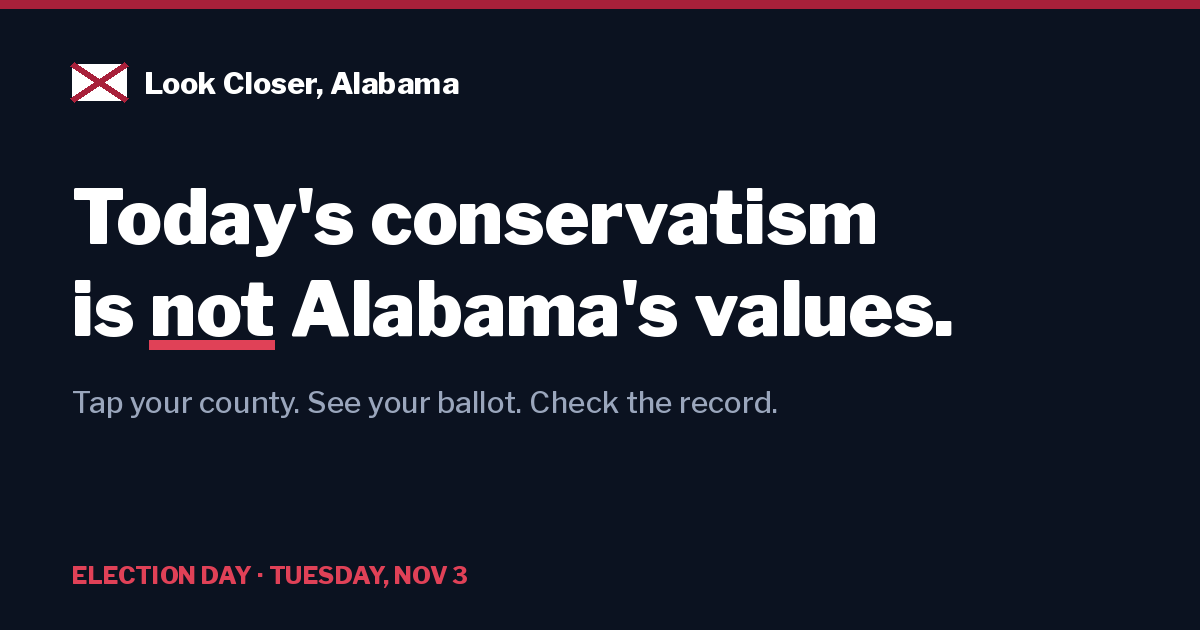
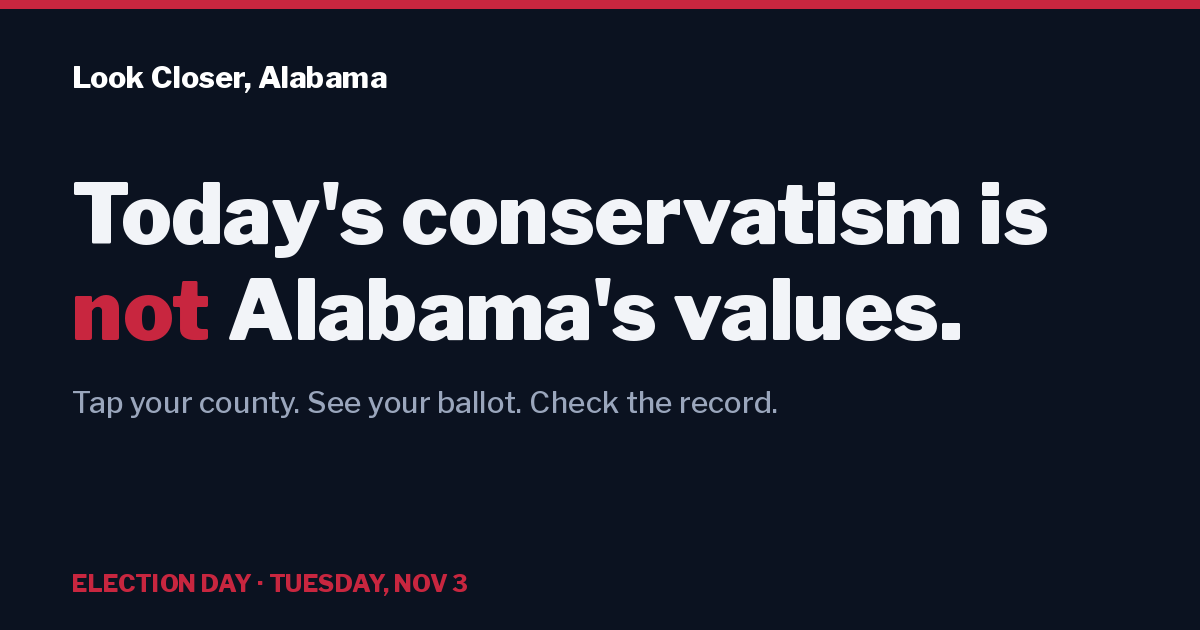
Add files via upload

diff --git a/index.html b/index.html
@@ -21,12 +21,13 @@ body{margin:0}
 /* Layout: an election-night desk. Dark navy board, a clickable county map beside your sample ballot, then a tabbed desk of short interactive panels. Crimson from the state flag marks selection and action. */
 :root{
   --bg:#0B1220; --panel:#111B2E; --panel2:#17243D; --line:#24324D; --ink:#F2F4F8; --muted:#9AA6BC; --faint:#64708A;
-  --crimson:#E04157; --flag:#A8203A; --blue:#6AA6F5; --rep:#B4BDCD; --good:#6AA6F5;
+  --crimson:#E04157; --flag:#A8203A; --red:#C8263F; --blue:#6AA6F5; --rep:#EF6B73; --good:#6AA6F5;
   --ui:"Libre Franklin", "Franklin Gothic Medium", "Helvetica Neue", Arial, sans-serif;
   --serif:"Source Serif 4", Georgia, serif;
   color-scheme:dark;
 }
 *{box-sizing:border-box}
+[hidden]{display:none!important}
 html,body{background:var(--bg)}
 body{color:var(--ink);font:15px/1.55 var(--ui)}
 .gutter{padding-left:max(16px, env(safe-area-inset-left,0px));padding-right:max(16px, env(safe-area-inset-right,0px))}
@@ -42,7 +43,7 @@ a:focus-visible,button:focus-visible,select:focus-visible,path:focus-visible{out
 .card{background:var(--panel);border:1px solid var(--line);border-radius:6px}
 
 /* top */
-.topbar{height:4px;background:var(--flag)}
+.topbar{height:4px;background:var(--red)}
 .nameplate{border-bottom:1px solid var(--line)}
 .np{display:flex;align-items:center;justify-content:space-between;gap:12px;padding-block:12px;flex-wrap:wrap}
 .brand{display:flex;align-items:center;gap:10px;font:800 1rem var(--ui);color:var(--ink);text-decoration:none}
@@ -53,15 +54,20 @@ a:focus-visible,button:focus-visible,select:focus-visible,path:focus-visible{out
 @keyframes pulse{70%{box-shadow:0 0 0 8px rgba(224,65,87,0)}100%{box-shadow:0 0 0 0 rgba(224,65,87,0)}}
 
 /* hero */
-.hero{padding-block:36px 24px;display:grid;grid-template-columns:minmax(0,1.4fr) minmax(0,1fr);gap:20px 40px;align-items:end}
-.hero h1{font-size:clamp(2rem,5.2vw,3.4rem);line-height:1.04;font-weight:900}
-.hero h1 u{text-decoration:none;box-shadow:inset 0 -.12em 0 var(--crimson)}
+.hero{padding-block:36px 28px;display:flex;flex-direction:column;gap:20px;position:relative}
+.wall{position:relative;z-index:1}
+html,body{overflow-x:clip}
+body{position:relative}
+.hero-sub{display:grid;grid-template-columns:minmax(0,1fr) auto;gap:16px 40px;align-items:center}
+.hero-sub .lede{max-width:62ch}
+.hero h1{font-family:var(--ui);font-weight:900;font-size:clamp(2.4rem,6.6vw,4.9rem);line-height:1.02;letter-spacing:-.025em}
+.hero h1 em{font-style:normal;color:var(--red)}
 .hero .lede{color:var(--muted);font-size:1.05rem}
 .quick{display:flex;flex-wrap:wrap;gap:8px}
 .btn{display:inline-flex;align-items:center;gap:8px;font:700 .9rem var(--ui);border-radius:4px;padding:10px 16px;cursor:pointer;text-decoration:none;border:1px solid var(--line);background:var(--panel2);color:var(--ink)}
 .btn.primary{background:var(--flag);border-color:var(--flag);color:#fff}
 .btn:hover{filter:brightness(1.15)}
-@media (max-width:760px){.hero{grid-template-columns:1fr}}
+@media (max-width:760px){.hero-sub{grid-template-columns:1fr}}
 
 /* wall: map + ballot */
 .wall{display:grid;grid-template-columns:minmax(0,.9fr) minmax(0,1.1fr);gap:16px;padding-bottom:28px}
@@ -99,6 +105,7 @@ a:focus-visible,button:focus-visible,select:focus-visible,path:focus-visible{out
 .cn span{overflow:hidden;text-overflow:ellipsis;white-space:nowrap}
 .pt{flex:none;font:800 .62rem var(--ui);letter-spacing:.06em;width:20px;height:16px;display:grid;place-items:center;border-radius:2px}
 .d .pt{background:var(--blue);color:var(--bg)} .r .pt{background:var(--rep);color:var(--bg)}
+.who .pt{flex:none;font:800 .62rem var(--ui);width:20px;height:16px;display:grid;place-items:center;border-radius:2px}
 .go{color:var(--faint);font-size:1.1rem}
 .contest.empty{cursor:default}
 .contest.empty .vs{color:var(--muted);font-size:.85rem}
@@ -106,7 +113,7 @@ a:focus-visible,button:focus-visible,select:focus-visible,path:focus-visible{out
 
 /* desk */
 .desk{padding-bottom:40px}
-.deskbar{position:sticky;top:env(safe-area-inset-top,0px);z-index:5;background:var(--bg);border-bottom:1px solid var(--line);display:flex;gap:2px;overflow-x:auto;scrollbar-width:none}
+.deskbar{position:sticky;top:env(safe-area-inset-top,0px);z-index:5;background:rgba(11,18,32,.78);-webkit-backdrop-filter:blur(10px);backdrop-filter:blur(10px);border-bottom:1px solid var(--line);display:flex;gap:2px;overflow-x:auto;scrollbar-width:none}
 body::before{content:"";position:fixed;inset:0 0 auto;height:env(safe-area-inset-top,0px);z-index:10;background:var(--bg)}
 .deskbar button{flex:none;background:none;border:0;border-bottom:3px solid transparent;color:var(--muted);font:700 .88rem var(--ui);padding:14px 14px 11px;cursor:pointer;display:flex;gap:8px;align-items:center}
 .deskbar button[aria-selected="true"]{color:var(--ink);border-bottom-color:var(--crimson)}
@@ -134,6 +141,19 @@ body::before{content:"";position:fixed;inset:0 0 auto;height:env(safe-area-inset
 .verdict.fact{color:var(--blue)} .verdict.myth{color:var(--crimson)}
 .nav{display:flex;justify-content:space-between;align-items:center;gap:10px}
 .results{display:flex;flex-direction:column;gap:14px}
+.rgrid{display:grid;grid-template-columns:repeat(auto-fit,minmax(240px,1fr));gap:16px 28px}
+.rgrid>div{display:flex;flex-direction:column;gap:8px;min-width:0}
+.topline{font-size:1rem}
+.align{display:flex;flex-direction:column;border-top:1px solid var(--line)}
+.arow{display:grid;grid-template-columns:minmax(0,8.5rem) minmax(0,1fr) minmax(0,1fr);gap:6px 14px;padding:10px 0;border-bottom:1px solid var(--line);align-items:start}
+.alabel{font:800 .7rem/1.3 var(--ui);letter-spacing:.1em;text-transform:uppercase;color:var(--muted);padding-top:3px}
+.who{display:flex;gap:8px;align-items:flex-start;min-width:0}
+.who>span{display:flex;flex-direction:column;min-width:0}
+.who .nm{font-weight:700;font-size:.9rem}
+.who .st{font-size:.78rem;line-height:1.35;color:var(--muted)}
+.who.yes .st{color:#7FD3A0} .who.no .st{color:#F2A0A6} .who.none{opacity:.55}
+.who .pt{margin-top:2px}
+@media (max-width:640px){.arow{grid-template-columns:1fr 1fr}.alabel{grid-column:1/-1;padding-top:0}}
 .bar{display:flex;flex-direction:column;gap:6px}
 .bar .row{display:flex;justify-content:space-between;gap:10px;font:700 .9rem var(--ui);font-variant-numeric:tabular-nums}
 .bar .track{height:10px;background:var(--line);border-radius:5px;overflow:hidden}
@@ -195,7 +215,7 @@ footer{border-top:1px solid var(--line);padding-block:20px 40px;display:flex;fle
 <body>
 <div class="topbar"></div>
 <header class="nameplate gutter"><div class="wrap np">
-  <a class="brand" href="#"><svg viewBox="0 0 30 20" aria-hidden="true"><rect width="30" height="20" fill="#FFFFFF"/><path d="M0 0L30 20M30 0L0 20" stroke="#A8203A" stroke-width="4"/></svg>Look Closer, Alabama</a>
+  <a class="brand" href="#">Look Closer, Alabama</a>
   <div class="count"><span class="dot"></span><span id="countdown">Election Day: Tue, Nov 3</span></div>
 </div></header>
 
@@ -203,13 +223,11 @@ footer{border-top:1px solid var(--line);padding-block:20px 40px;display:flex;fle
 <div class="wrap">
 
 <section class="hero" aria-labelledby="h1">
-  <div style="display:flex;flex-direction:column;gap:14px;min-width:0">
-    <div class="label">Alabama votes Tuesday, November 3</div>
-    <h1 id="h1">Today's conservatism is <u>not</u> Alabama's values.</h1>
-  </div>
-  <div style="display:flex;flex-direction:column;gap:14px;min-width:0">
-    <p class="lede">Most Alabamians want rural hospitals kept open and groceries untaxed. What they're getting is culture-war slogans. Tap your county, see your ballot, and check the record in a few minutes.</p>
-    <div class="quick"><a class="btn primary" href="#quiz">Take the 60-second quiz</a><a class="btn" href="#claims">Check the claims</a></div>
+  <div class="label">Alabama votes Tuesday, November 3</div>
+  <h1 id="h1">Today's conservatism is<br><em>not</em> Alabama's values.</h1>
+  <div class="hero-sub">
+    <p class="lede">Most Alabamians want rural hospitals kept open and groceries untaxed. What they're getting is culture-war noise. Skip the slogans: tap your county, see your ballot, and check the record yourself.</p>
+    <div class="quick"><a class="btn primary" href="#quiz">Take the 2-minute quiz</a><a class="btn" href="#claims">Check the claims</a></div>
   </div>
 </section>
 
@@ -240,7 +258,7 @@ footer{border-top:1px solid var(--line);padding-block:20px 40px;display:flex;fle
 <details class="sources"><summary>Sources (<span id="srcCount"></span>)</summary><ol id="srcList"></ol></details>
 <footer>
   <p class="motto">Audemus jura nostra defendere. We dare defend our rights.</p>
-  <p><b style="color:var(--ink)">An independent, unofficial voter guide.</b> Not authorized by any candidate or campaign. It has a point of view, and every claim links to its source so you can decide for yourself.</p>
+  <p><b style="color:var(--ink)">An independent, unofficial voter guide.</b> Not authorized by any candidate, campaign or party. It doesn't tell you how to vote in every race. It puts this year's loudest talking points next to the record, and every claim links to its source.</p>
   <p class="src">Last updated October 27, 2026. State legislative and local races are not included.</p>
 </footer>
 </div></div>
@@ -273,6 +291,17 @@ const S = {
   wessrural:["Alabama Political Reporter — Wess criticizes Moore's voting record on rural health (Sep 16, 2026)","https://www.alreporter.com/2026/09/16/wess-highlights-alabamas-rural-healthcare-crisis-criticizes-moores-voting-record/"],
   moore:["Washington Examiner — Barry Moore launches Senate bid","https://www.washingtonexaminer.com/?p=3497159"],
   moore2:["Alabama Political Reporter — Moore launches U.S. Senate bid (Aug 12, 2025)","https://www.alreporter.com/2025/08/12/barry-moore-launches-u-s-senate-bid-vows-to-back-trump-and-fight-d-c-swamp/"],
+  roll:["U.S. House Clerk — Roll Call 145, H.R. 1 (One Big Beautiful Bill Act) passage (May 22, 2025)","https://clerk.house.gov/evs/2025/roll145"],
+  gazv:["Alabama Gazette — Sewell and Figures vote no on the One Big Beautiful Bill Act (Jul 2025)","https://www.alabamagazette.com/story/2025/07/01/news/sewell-and-figures-vote-no-on-the-one-big-beautiful-bill-act/7082.html"],
+  al1:["Alabama Reflector via Yahoo News — Former congressman, military veteran make bids for AL-1 (Oct 22, 2026)","https://www.yahoo.com/news/politics/articles/former-congressman-military-veteran-bids-095907589.html"],
+  clyde:["Clyde Jones for Congress — About","https://clydeforcongress.com/"],
+  al4:["Alabama Reflector voter guide — 4th Congressional District","https://alabamareflector.com/voter-guides/contests/al04/"],
+  al6:["Alabama Reflector voter guide — 6th Congressional District","https://alabamareflector.com/voter-guides/contests/al06/"],
+  bt:["Birmingham Times — Alabama Election 2026: key races and candidates (Oct 2026)","https://www.birminghamtimes.com/2026/10/alabama-election-2026-a-guide-to-key-races-candidates-and-issues/"],
+  yhl:["Yellowhammer News — Tuberville says lottery is 'going to be up to the people' (Jun 3, 2025)","https://yellowhammernews.com/tuberville-say-lottery-in-alabama-is-going-to-be-up-to-the-people"],
+  wahl19:["1819 News — Wahl: 'I would struggle with supporting a clean lottery' (Jan 28, 2026)","https://1819news.com/news/item/wahl-i-would-struggle-with-supporting-a-clean-lottery-opposed-to-increased-casino-gaming"],
+  agabc:["ABC 33/40 — Alabama attorney general candidates discuss priorities (Oct 21, 2026)","https://abc3340.com/news/alabama-news/alabama-attorney-general-candidates-discuss-priorities-ahead-of-election"],
+  rogers:["The Mountain Eagle — Rogers pushes for early voting, tracking of absentee ballots (Feb 4, 2026)","https://www.mountaineagle.com/news/rogers-pushes-for-early-voting-tracking-of-absentee-ballots/article_7a5c75cb-d60d-5103-be7c-53f992752638.html"],
   house:["Wikipedia — 2026 U.S. House elections in Alabama","https://en.wikipedia.org/wiki/2026_United_States_House_of_Representatives_elections_in_Alabama"],
   hvg:["Alabama Reflector — Voter guide to Alabama's special primary elections (Aug 10, 2026)","https://alabamareflector.com/2026/08/10/a-voter-guide-to-alabamas-special-primary-elections/"],
   wbhm:["WBHM — 2026 Alabama special congressional primary results (Aug 11, 2026)","https://www.wbhm.org/local-news/2026-08-11/2026-alabama-special-congressional-primary-results"],
@@ -305,14 +334,36 @@ Object.entries(D).forEach(([d,s])=>s.split(" ").forEach(c=>COUNTY[c.replace("_",
 Object.assign(COUNTY,{Elmore:[2,6],Talladega:[3,6],Lauderdale:[4,5],Tuscaloosa:[4,7],Jefferson:[6,7]});
 
 
+const VY="voted for the 2025 budget law", VN="voted against the 2025 budget law";
 const HOUSE = {
- 1:{open:"Open seat; Barry Moore is running for U.S. Senate.", d:["Clyde Jones","Community organizer"], r:["Jerry Carl","Former U.S. representative, 2021–2025"], c:["house","hvg"]},
- 2:{d:["Shomari Figures","Incumbent"], r:["Rhett Marques","State representative since 2018; endorsed by Trump"], c:["house","wbhm"]},
- 3:{d:["Lee McInnis","Retired Defense Intelligence Agency employee"], r:["Mike Rogers","Incumbent"], c:["house"]},
- 4:{d:["Amanda Pusczek","Registered nurse"], r:["Robert Aderholt","Incumbent"], c:["house"]},
- 5:{d:["Andrew Sneed","Mechanical contractor"], r:["Dale Strong","Incumbent"], c:["house"]},
- 6:{d:["Maurice Mercer","Former Pelham city councilman"], r:["Gary Palmer","Incumbent; supports repealing the Affordable Care Act"], c:["house","hvg"]},
- 7:{d:["Terri Sewell","Incumbent"], r:["Ammie Akin","Educator"], c:["house"]},
+ 1:{open:"Open seat; Barry Moore is running for U.S. Senate.", c:["house","hvg"],
+    d:["Clyde Jones","Retired Army First Sergeant (21 years, Bronze Star) and associate minister at Macedonia Missionary Baptist Church", ["Wants Congress to restore the Affordable Care Act premium help that lapsed, saying its loss pushed premiums up"], ["al1","clyde"]],
+    r:["Jerry Carl","Former U.S. representative (2021–2025) and Mobile County commissioner", ["Supports a balanced budget amendment and spending cuts"], ["al1"]],
+    pos:{aca:{d:["a","wants ACA premium help restored",["al1"]]}}},
+ 2:{c:["house","wbhm"],
+    d:["Shomari Figures","Incumbent U.S. representative", ["Voted against the 2025 federal budget law (H.R. 1)"], ["roll","gazv"]],
+    r:["Rhett Marques","State representative since 2018; endorsed by Trump", ["Wants rural broadband and infrastructure investment"], ["hvg"]],
+    pos:{medcut:{d:["a",VN,["roll","gazv"]]}}},
+ 3:{c:["house"],
+    d:["Lee McInnis","Retired Defense Intelligence Agency employee", null, null],
+    r:["Mike Rogers","Incumbent U.S. representative", ["Voted for the 2025 federal budget law (H.R. 1)"], ["roll","gazv"]],
+    pos:{medcut:{r:["d",VY,["roll","gazv"]]}}},
+ 4:{c:["house","al4"],
+    d:["Amanda Pusczek","Registered nurse", ["Supports letting Alabamians enroll in Medicaid expansion directly, without the Legislature's approval"], ["al4"]],
+    r:["Robert Aderholt","Incumbent U.S. representative since 1997", ["Voted for the 2025 federal budget law (H.R. 1)"], ["roll","gazv"]],
+    pos:{medcut:{r:["d",VY,["roll","gazv"]]}, medexp:{d:["a","supports Medicaid expansion",["al4"]]}}},
+ 5:{c:["house"],
+    d:["Andrew Sneed","Mechanical contractor", null, null],
+    r:["Dale Strong","Incumbent U.S. representative", ["Voted for the 2025 federal budget law (H.R. 1)"], ["roll","gazv"]],
+    pos:{medcut:{r:["d",VY,["roll","gazv"]]}}},
+ 6:{c:["house","al6"],
+    d:["Maurice Mercer","Former Pelham city councilman", ["Campaigning on improved access to health care"], ["bt"]],
+    r:["Gary Palmer","Incumbent U.S. representative since 2015", ["Voted for the 2025 federal budget law (H.R. 1)","Has called for repealing the Affordable Care Act"], ["roll","al6"]],
+    pos:{medcut:{r:["d",VY,["roll","gazv"]]}, aca:{r:["d","has called for repealing it",["al6"]]}}},
+ 7:{c:["house","bt"],
+    d:["Terri Sewell","Incumbent U.S. representative since 2011", ["Voted against the 2025 federal budget law (H.R. 1)","Has supported federal investment in rural hospitals"], ["roll","gazv","bt"]],
+    r:["Ammie Akin","Former educator and nonprofit founder", ["Campaign emphasizes improving health care"], ["bt"]],
+    pos:{medcut:{d:["a",VN,["roll","gazv"]]}}},
 };
 const STATE = [
  {office:"U.S. Senate", d:["Everett Wess","Former Midfield municipal judge; attorney and pastor"], r:["Barry Moore","U.S. representative, AL-1"], tab:"sen"},
@@ -333,7 +384,7 @@ const races = [
      pts:[`Running as a "Trump conservative"; says he was the first elected official to endorse Trump in 2016 ${cite("moore")}`,
           `Voted for the One Big Beautiful Bill Act, citing its tax cuts on tips and Social Security ${cite("moore")}`,
           `Launched his campaign vowing to fight "socialists and communists running the Democrat Party" ${cite("moore2")}`]},
-  why:`Wess has spent his life in Alabama courtrooms and Huntsville engineering labs. His race is about whether Alabama's senator backs the hospitals and universities that rural counties depend on.`},
+  why:`The clearest difference is health care. Moore voted for the 2025 federal budget law and its Medicaid changes. Wess says those changes will squeeze rural hospitals. ${cite("roll","wessrural")}`},
  {id:"house", tab:"U.S. House", house:true},
  {id:"gov", tab:"Governor", title:"Governor", note:`Open seat. Gov. Kay Ivey is term-limited. ${cite("bp")}`,
   d:{name:"Doug Jones", bio:`Former U.S. senator (2018–2021) and federal prosecutor. Grew up in Fairfield, son of a steelworker. ${cite("sandmtn")}`,
@@ -347,8 +398,9 @@ const races = [
           `Wants to end the grocery tax and cut the income tax ${cite("ms")}`,
           `Says the state cannot afford Medicaid expansion ${cite("ms")}`,
           `Promotes AI and data center development as part of the economic future ${cite("apr")}`,
+          `Says a state lottery is "up to the people" to decide in a referendum ${cite("yhl")}`,
           `Has said he sees no reason to debate Jones ${cite("ms","wbrc")}`]},
-  why:`Both candidates want to end the grocery tax. The difference is what comes next: Jones pairs it with Medicaid expansion and a lottery vote, two ideas that polls have shown majorities of Alabamians support across party lines. ${cite("poll")}`,
+  why:`Both candidates want to end the grocery tax. They split on Medicaid expansion and a lottery vote, two ideas polls have shown majorities of Alabamians support across party lines. ${cite("poll")}`,
   foot:`Ronald Burnette Jr. is running as an independent write-in. ${cite("bp")}`},
  {id:"ltg", tab:"Lt. Governor", title:"Lieutenant Governor", note:`Open seat. ${cite("ltg")}`,
   d:{name:"Phillip Ensler", bio:`State representative from Montgomery; former senior policy advisor to the City of Montgomery. ${cite("waff")}`,
@@ -358,33 +410,54 @@ const races = [
           `Pitches a coalition of Democrats, Republicans and independents ${cite("ensler")}`]},
   r:{name:"John Wahl", bio:`Former chair of the Alabama Republican Party; endorsed by President Trump. ${cite("adn","ltg")}`,
      pts:[`Broad priorities: more job and education opportunities, less crime, affordability ${cite("ltg")}`,
+          `Wants the grocery tax phased out "as soon as possible" ${cite("ltg")}`,
+          `Says he "struggles" with whether he would support a clean lottery ${cite("wahl19")}`,
           `A residency challenge was filed in January; the state party dismissed it ${cite("adn")}`]},
-  why:`Ensler's priorities are the bills he already filed in the House. Wahl comes from running the party, not the Legislature.`},
+  why:`Ensler's priorities mirror bills he filed as a legislator, though the office itself has little power to pass them. Wahl's priorities are broader, and he comes from running the state Republican Party. ${cite("ltg")}`},
  {id:"ag", tab:"Attorney General", title:"Attorney General", note:`Open seat. Steve Marshall is term-limited.`,
   d:{name:"Jeff McLaughlin", bio:`Guntersville attorney; state representative 2001–2011. ${cite("mcl")}`,
      pts:[`Refused campaign contributions as a legislator and funded his own races ${cite("mcl")}`,
           `Introduced a ban on PAC-to-PAC transfers every session; it passed the House each year and died in the Senate ${cite("mcl")}`,
-          `Running the same no-donations campaign this year ${cite("mclr")}`]},
+          `Running the same no-donations campaign this year ${cite("mclr")}`,
+          `Would push the office toward consumer protection, including representing utility customers on power bills ${cite("agabc")}`,
+          `Says prisons need reform, citing overcrowding and long sentences for nonviolent offenders ${cite("agabc")}`]},
   r:{name:"Katherine Robertson", bio:`Chief counsel to Attorney General Steve Marshall since 2017. ${cite("rob")}`,
      pts:[`Describes herself as a steadfast Trump supporter who will fight the "fanatical left" ${cite("rob")}`,
+          `Backs "honest sentencing" and tougher punishment for gang and violent offenders; won't "concede that we have overcrowded prisons" ${cite("agabc")}`,
           `Spent millions of dollars winning the nomination ${cite("mclr")}`]},
-  why:`If you think money runs Montgomery, McLaughlin is the rare candidate who spent a decade refusing to take any.`},
+  why:`One candidate refused all campaign contributions for a decade in the Legislature. The other spent millions winning the nomination. ${cite("mcl","mclr")}`},
  {id:"sos", tab:"Secretary of State", title:"Secretary of State", note:`Runs Alabama's elections and business records. Open seat. ${cite("sos")}`,
   d:{name:"Wayne Rogers", bio:`Attorney, former federal prosecutor, and first-time candidate. ${cite("sosadn","sos")}`,
-     pts:[`Has raised about $50,000 in a race where his opponent has raised over $740,000 ${cite("soswiki")}`]},
+     pts:[`Wants weekend early voting and barcode tracking of absentee ballots ${cite("rogers")}`,
+          `Has raised about $50,000 in a race where his opponent has raised over $740,000 ${cite("soswiki")}`]},
   r:{name:"Caroleene Dobson", bio:`Montgomery real estate attorney raised on a Monroe County cattle farm; 2024 GOP nominee for Congress in AL-2. ${cite("dob")}`,
      pts:[`Wants an election crimes division modeled on Florida's and statewide post-election audits ${cite("dob")}`,
           `Pledges to cut fees on businesses and advocate for President Trump's election proposals ${cite("dob")}`]},
-  why:`Rogers is a former federal prosecutor running on a shoestring. This office counts your vote.`}
+  why:`This office runs your elections. Dobson has raised roughly 15 times what Rogers has. ${cite("soswiki")}`}
 ];
 
-const RACE = {gov:{label:"Governor", d:"Doug Jones", r:"Tommy Tuberville"}, sen:{label:"U.S. Senate", d:"Everett Wess", r:"Barry Moore"}};
+const VOTEY=["d","voted for the law",["roll","gazv"]], VOTEN=["a","voted against the law",["roll","gazv"]];
 const stmts = [
- {s:"Alabama should expand Medicaid so working families have coverage and rural hospitals stay open.", race:"gov", agree:"d", c:["apr","ms"]},
- {s:"Alabama should stop taxing groceries.", race:"gov", agree:"both", c:["refl","ms"]},
- {s:"New AI data centers should wait until there are rules protecting ratepayers and local communities.", race:"gov", agree:"d", c:["apr"]},
- {s:"Candidates for governor should debate each other in public before the election.", race:"gov", agree:"d", c:["ms","x1819"]},
- {s:"Congress was wrong to cut Medicaid in the 2025 federal budget law.", race:"sen", agree:"d", c:["wessrural","moore"]},
+ {id:"medexp", s:"Alabama should expand Medicaid so working families have coverage and rural hospitals stay open.", pos:{
+   "Doug Jones":["a",null,["apr"]], "Tommy Tuberville":["d","says the state can't afford it",["ms"]], "Phillip Ensler":["a",null,["ltg"]],
+   "Amanda Pusczek":["a","backs letting Alabamians enroll directly",["al4"]]}},
+ {id:"grocery", s:"Alabama should stop taxing groceries.", pos:{
+   "Doug Jones":["a",null,["refl"]], "Tommy Tuberville":["a",null,["ms"]], "Phillip Ensler":["a",null,["ltg"]], "John Wahl":["a","wants it phased out \"as soon as possible\"",["ltg"]]}},
+ {id:"lottery", s:"Alabama voters should get to vote on a state lottery.", pos:{
+   "Doug Jones":["a",null,["refl"]], "Tommy Tuberville":["a","says it's \"up to the people\"",["yhl"]], "Phillip Ensler":["a",null,["ltg"]], "John Wahl":["u","says he \"struggles\" with supporting one",["wahl19"]]}},
+ {id:"medcut", s:"Congress was wrong to cut Medicaid in the 2025 federal budget law.", pos:{
+   "Everett Wess":["a",null,["wessrural"]], "Barry Moore":VOTEY, "Shomari Figures":VOTEN, "Terri Sewell":VOTEN,
+   "Mike Rogers":VOTEY, "Robert Aderholt":VOTEY, "Dale Strong":VOTEY, "Gary Palmer":VOTEY}},
+ {id:"aca", s:"Congress should keep the Affordable Care Act, not repeal it.", pos:{
+   "Clyde Jones":["a","wants ACA premium help restored",["al1"]], "Gary Palmer":["d","has called for repealing it",["al6"]]}},
+ {id:"data", s:"New AI data centers should wait until there are rules protecting ratepayers and local communities.", pos:{
+   "Doug Jones":["a",null,["apr"]], "Tommy Tuberville":["d","promotes data center growth",["apr"]], "Phillip Ensler":["a","backs a moratorium",["ltg"]]}},
+ {id:"prisons", s:"Alabama's prisons are overcrowded, and too many nonviolent offenders serve long sentences.", pos:{
+   "Jeff McLaughlin":["a",null,["agabc"]], "Katherine Robertson":["d","won't \"concede that we have overcrowded prisons\"",["agabc"]]}},
+ {id:"fraudunit", s:"Alabama should create a special unit to investigate and prosecute election fraud.", pos:{
+   "Caroleene Dobson":["a",null,["dob"]]}},
+ {id:"early", s:"Alabama should offer early voting.", pos:{
+   "Wayne Rogers":["a","wants weekend early voting",["rogers"]]}},
 ];
 
 const claims = [
@@ -425,7 +498,7 @@ const $ = id => document.getElementById(id);
 
 /* countdown */
 (function(){
-  const now=new Date(), ed=new Date(2026,10,3), days=Math.ceil((ed-new Date(now.getFullYear(),now.getMonth(),now.getDate()))/864e5);
+  const now=new Date(), ed=new Date(2026,10,3), days=Math.round((ed-new Date(now.getFullYear(),now.getMonth(),now.getDate()))/864e5);
   $("countdown").innerHTML = days>1?`<b>${days} days</b> until Election Day · Nov 3`:days===1?`Election Day is <b>tomorrow</b>`:days===0?`<b>Election Day is today</b> · polls 7 a.m.–7 p.m.`:`Election Day was Nov 3`;
 })();
 
@@ -462,7 +535,7 @@ function renderIntake(){
     splitEl.innerHTML=`<span>${county} is split.</span>${ds.map(d=>`<button type="button" class="chip" data-d="${d}" aria-pressed="${district===d}">District ${d}</button>`).join("")}<a class="chip" href="https://www.alabamavotes.gov/" target="_blank" rel="noopener">Look it up</a>`;
   } else { splitEl.hidden=true; splitEl.innerHTML=""; district=ds?ds[0]:0; }
   $("where").textContent = county?`${county} County${district?` · District ${district}`:""}`:"Statewide";
-  renderBallot(); renderPills();
+  renderBallot(); renderPills(); if(typeof renderQuiz==="function"&&$("quizCard")){const n=active().length; if(qi>n)qi=n; renderQuiz();}
 }
 function renderBallot(){
   $("ballotBox").innerHTML = STATE.map(s=>{
@@ -480,8 +553,8 @@ $("ballotBox").addEventListener("click",e=>{const b=e.target.closest("[data-race
 const PANES=[["quiz","Where you stand"],["claims","Claims vs. record"],["candidates","The candidates"],["myth","Myth or fact"],["vote","How to vote"]];
 $("deskbar").innerHTML=PANES.map(([id,t],i)=>`<button type="button" role="tab" id="t-${id}" data-p="${id}" aria-selected="false"><span class="n">0${i+1}</span>${t}</button>`).join("");
 $("panes").innerHTML=`
- <div class="pane" id="pane-quiz" role="tabpanel" hidden><div class="pane-head"><div><h2>Who's with you?</h2><p>Five statements, each tied to a race on your ballot. Only sourced positions count.</p></div></div><div class="card stepper" id="quizCard"></div></div>
- <div class="pane" id="pane-claims" role="tabpanel" hidden><div class="pane-head"><div><h2>What they say vs. the record</h2><p>Attacks on Doug Jones and Alabama Democrats from Tuberville, his campaign and Barry Moore. Tap a card to check it.</p></div><span class="label" id="claimCount"></span></div><div class="tiles" id="tiles"></div></div>
+ <div class="pane" id="pane-quiz" role="tabpanel" hidden><div class="pane-head"><div><h2>Who's with you?</h2><p id="quizIntro">Agree or disagree, then see where every candidate on your ballot stands. Only positions on the public record count.</p></div></div><div class="card stepper" id="quizCard"></div></div>
+ <div class="pane" id="pane-claims" role="tabpanel" hidden><div class="pane-head"><div><h2>What they say vs. the record</h2><p>The loudest attack lines of this campaign, checked against the public record. Tap a card to check it.</p></div><span class="label" id="claimCount"></span></div><div class="tiles" id="tiles"></div></div>
  <div class="pane" id="pane-candidates" role="tabpanel" hidden><div class="pane-head"><div><h2>The candidates, side by side</h2><p>Every point links to its source.</p></div></div><div class="pills" id="pills" role="tablist"></div><div id="race"></div></div>
  <div class="pane" id="pane-myth" role="tabpanel" hidden><div class="pane-head"><div><h2>Myth or fact?</h2><p>Quick round. See how much of what you've heard holds up.</p></div></div><div class="card stepper" id="mythCard"></div></div>
  <div class="pane" id="pane-vote" role="tabpanel" hidden><div class="pane-head"><div><h2>Make a plan</h2><p>Polls are open 7 a.m. to 7 p.m. on Tuesday, Nov 3. Check ID, absentee and polling-place rules at the official sources.</p></div></div>
@@ -497,13 +570,14 @@ window.addEventListener("hashchange",()=>{const h=location.hash.slice(1);if(PANE
 /* candidates */
 let curRace="gov";
 function cand(c,side){return `<div class="cand ${side}"><div class="party">${side==="d"?"Democrat":"Republican"}</div><h3>${c.name}</h3><p class="bio">${c.bio}</p>${c.pts?`<ul>${c.pts.map(p=>`<li>${p}</li>`).join("")}</ul>`:""}</div>`}
+function hcand(x,side){return cand({name:x[0],bio:x[1]+(x[3]?" "+cite(...x[3]):""),pts:x[2]||["No detailed policy positions found in our sources."]},side)}
 function renderPills(){
   $("pills").innerHTML=races.map(r=>`<button type="button" role="tab" data-r="${r.id}" aria-selected="${r.id===curRace}">${r.house&&district?`U.S. House · ${district}`:r.tab}</button>`).join("");
   const r=races.find(x=>x.id===curRace), el=$("race");
   if(r.house){
     if(!district){el.innerHTML=`<div class="card race"><div class="race-head"><h3>U.S. House</h3><p style="color:var(--muted)">Tap your county on the map to see your district's race.</p></div></div>`;return}
     const h=HOUSE[district];
-    el.innerHTML=`<div class="card race"><div class="race-head"><span class="label">Your district</span><h3>U.S. House · District ${district}</h3><p class="src">${h.open||"Lines were redrawn for 2026."} ${cite("map",...h.c)}</p></div><div class="pair">${cand({name:h.d[0],bio:h.d[1]},"d")}${cand({name:h.r[0],bio:h.r[1]},"r")}</div></div>`;return;
+    el.innerHTML=`<div class="card race"><div class="race-head"><span class="label">Your district</span><h3>U.S. House · District ${district}</h3><p class="src">${h.open||"Lines were redrawn for 2026."} ${cite("map",...h.c)}</p></div><div class="pair">${hcand(h.d,"d")}${hcand(h.r,"r")}</div></div>`;return;
   }
   el.innerHTML=`<div class="card race"><div class="race-head"><span class="label">Statewide</span><h3>${r.title}</h3><p class="src">${r.note}</p></div><div class="pair">${cand(r.d,"d")}${cand(r.r,"r")}</div><div class="why"><b>Look closer</b><p>${r.why}</p></div>${r.foot?`<div class="race-foot"><p class="src">${r.foot}</p></div>`:""}</div>`;
 }
@@ -511,32 +585,52 @@ $("pills").addEventListener("click",e=>{const b=e.target.closest("[data-r]");if(
 
 /* quiz (one at a time) */
 let qi=0; const vAns={};
-function sides(st,v){const R=RACE[st.race];
-  if(st.agree==="both") return `<b>${R.label}:</b> ${R.d} and ${R.r} both want this. Common ground.`;
-  const w=(v?st.agree==="d":st.agree!=="d")?R.d:R.r, o=w===R.d?R.r:R.d;
-  return `<b>${R.label}:</b> ${w} is with you. ${o} is not.`}
-const prog=(n,i,done)=>`<div class="prog">${Array.from({length:n},(_,k)=>`<i class="${k<i||done[k]!==undefined&&k!==i?"on":""} ${k===i?"cur":""}"></i>`).join("")}</div>`;
+function ballotRaces(){ // [{label,d,r}] in ballot order, for the current county
+  const out=[];
+  STATE.forEach(x=>{ if(x.house){ if(district){const h=HOUSE[district]; out.push({label:`U.S. House · District ${district}`,d:h.d[0],r:h.r[0]})} }
+    else out.push({label:x.office,d:x.d[0],r:x.r[0]}) });
+  return out;
+}
+const onBallot=()=>new Set(ballotRaces().flatMap(r=>[r.d,r.r]));
+const active=()=>{const b=onBallot();return stmts.filter(st=>Object.keys(st.pos).some(n=>b.has(n)))};
+function chip(name,side,x,me){
+  if(!x) return `<span class="who ${side} none"><b class="pt">${side==="d"?"D":"R"}</b><span><span class="nm">${name}</span><span class="st">No public position</span></span></span>`;
+  const k=x[0]==="u"?"und":x[0]===me?"yes":"no", st=x[0]==="u"?"Undecided":x[0]===me?"With you":"Not with you";
+  return `<span class="who ${side} ${k}"><b class="pt">${side==="d"?"D":"R"}</b><span><span class="nm">${name}</span><span class="st">${k==="yes"?"✓ ":k==="no"?"✕ ":""}${st}${x[1]?` · ${x[1]}`:""} ${cite(...x[2])}</span></span></span>`;
+}
+function sides(st,v){
+  const me=v?"a":"d";
+  return `<div class="align">${ballotRaces().map(r=>`<div class="arow"><span class="alabel">${r.label}</span>${chip(r.d,"d",st.pos[r.d],me)}${chip(r.r,"r",st.pos[r.r],me)}</div>`).join("")}</div>`;
+}
+const prog=(n,i)=>`<div class="prog">${Array.from({length:n},(_,k)=>`<i class="${k<i?"on":""} ${k===i?"cur":""}"></i>`).join("")}</div>`;
 function renderQuiz(){
-  const el=$("quizCard");
-  if(qi>=stmts.length){
-    const t={gov:{d:0,r:0,n:0},sen:{d:0,r:0,n:0}};
-    Object.entries(vAns).forEach(([i,v])=>{const st=stmts[i],T=t[st.race];T.n++;if(st.agree==="both"){if(v){T.d++;T.r++}}else if(v===(st.agree==="d"))T.d++;else T.r++});
-    const bar=(name,side,sc,tot)=>`<div class="bar ${side}"><div class="row"><span>${name}</span><span>${sc} of ${tot}</span></div><div class="track"><div class="fill" data-w="${tot?Math.round(sc/tot*100):0}"></div></div></div>`;
-    const blk=k=>t[k].n?`<div class="label">${RACE[k].label}</div>${bar(RACE[k].d,"d",t[k].d,t[k].n)}${bar(RACE[k].r,"r",t[k].r,t[k].n)}`:"";
-    el.innerHTML=`<div class="results"><div class="label">Your ballot, matched</div>${blk("gov")}${blk("sen")}
+  const el=$("quizCard"), list=active();
+  if(qi>=list.length){
+    const sc={}; ballotRaces().forEach(r=>[r.d,r.r].forEach(n=>sc[n]={m:0,n:0}));
+    list.forEach(st=>{const v=vAns[st.id]; if(v===undefined) return; const me=v?"a":"d";
+      Object.entries(st.pos).forEach(([n,x])=>{ if(!sc[n]||x[0]==="u") return; sc[n].n++; if(x[0]===me) sc[n].m++; })});
+    const bar=(name,side)=>{const t=sc[name];return t.n?`<div class="bar ${side}"><div class="row"><span>${name}</span><span>${t.m} of ${t.n}</span></div><div class="track"><div class="fill" data-w="${Math.round(t.m/t.n*100)}"></div></div></div>`
+      :`<div class="bar ${side}"><div class="row"><span>${name}</span><span style="color:var(--faint)">No positions on record</span></div><div class="track"></div></div>`};
+    const top=Object.entries(sc).filter(([n,t])=>t.n>=2).sort((a,b)=>b[1].m/b[1].n-a[1].m/a[1].n||b[1].n-a[1].n).slice(0,3).filter(([n,t])=>t.m>0);
+    el.innerHTML=`<div class="results"><div class="label" style="color:var(--ink)">Your ballot, matched</div>
+      ${top.length?`<p class="topline">Most in line with you: ${top.map(([n,t])=>`<b>${n}</b> (${t.m} of ${t.n})`).join(", ")}</p>`:""}
+      <div class="rgrid">${ballotRaces().map(r=>`<div><div class="label">${r.label}</div>${bar(r.d,"d")}${bar(r.r,"r")}</div>`).join("")}</div>
+      ${district?"":`<p class="src">Tap your county on the map to add your U.S. House race.</p>`}
+      <p class="src">Scores count only positions on the public record. A candidate with no stated position isn't counted for or against you.</p>
       <div class="nav"><button type="button" class="btn" id="qRestart">Start over</button><span style="display:flex;gap:8px;align-items:center;flex-wrap:wrap"><span class="src" id="copyMsg"></span><button type="button" class="btn primary" id="copyBtn">Copy link to share</button></span></div></div>`;
     requestAnimationFrame(()=>el.querySelectorAll(".fill").forEach(f=>f.style.width=f.dataset.w+"%"));
     $("qRestart").onclick=()=>{qi=0;Object.keys(vAns).forEach(k=>delete vAns[k]);renderQuiz()};
     $("copyBtn").onclick=async()=>{const url=location.href.split("#")[0];try{await navigator.clipboard.writeText(url);$("copyMsg").textContent="Link copied"}catch(e){$("copyMsg").textContent=url}};
     return;
   }
-  const st=stmts[qi], v=vAns[qi];
-  el.innerHTML=`${prog(stmts.length,qi,vAns)}<div style="display:flex;justify-content:space-between;gap:8px"><span class="label">${RACE[st.race].label}</span><span class="label">${qi+1} / ${stmts.length}</span></div>
+  const st=list[qi], v=vAns[st.id];
+  el.innerHTML=`${prog(list.length,qi)}<div style="display:flex;justify-content:space-between;gap:8px"><span class="label">Where you stand</span><span class="label">${qi+1} / ${list.length}</span></div>
    <div class="stmt">${st.s}</div>
    <div class="answers"><button type="button" class="ans" data-v="1" aria-pressed="${v===true}" ${v!==undefined?"disabled":""}><i></i>Agree</button><button type="button" class="ans" data-v="0" aria-pressed="${v===false}" ${v!==undefined?"disabled":""}><i></i>Disagree</button></div>
-   ${v===undefined?"":`<div class="reveal"><p>${sides(st,v)} ${cite(...st.c)}</p></div><div class="nav"><span></span><button type="button" class="btn primary" id="qNext">${qi===stmts.length-1?"See your results":"Next"} →</button></div>`}`;
+   ${v===undefined?"":`${sides(st,v)}<div class="nav"><span></span><button type="button" class="btn primary" id="qNext">${qi===list.length-1?"See your results":"Next"} →</button></div>`}
+   ${district||qi?"":`<p class="src">Tap your county on the map first to include your U.S. House race.</p>`}`;
 }
-$("quizCard").addEventListener("click",e=>{const a=e.target.closest(".ans");if(a&&vAns[qi]===undefined){vAns[qi]=a.dataset.v==="1";renderQuiz();return}if(e.target.closest("#qNext")){qi++;renderQuiz()}});
+$("quizCard").addEventListener("click",e=>{const st=active()[qi];const a=e.target.closest(".ans");if(a&&st&&vAns[st.id]===undefined){vAns[st.id]=a.dataset.v==="1";renderQuiz();return}if(e.target.closest("#qNext")){qi++;renderQuiz()}});
 
 /* claims tiles */
 const open=new Set();
